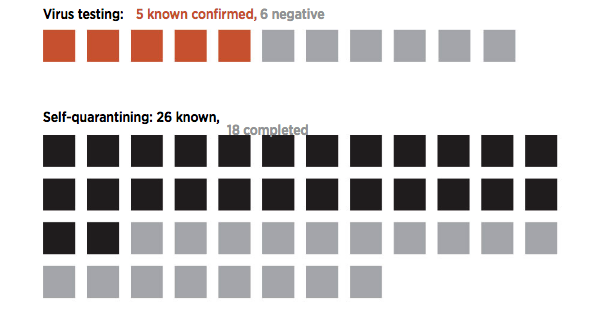
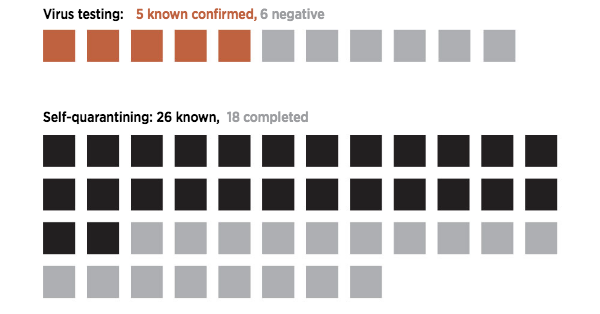
alignment updates

Changed region(s): [[0.06, 0.3439, 0.54, 0.4299], [0.06, 0.0287, 0.54, 0.0573]]

diff --git a/lawmaker-covid-20200327/_ai2html-graphic.html b/lawmaker-covid-20200327/_ai2html-graphic.html
@@ -132,10 +132,10 @@
 			<div id='g-ai1-3' class='g-ai2html-settings g-aiAbs' style='top:1.91%;left:8.5em;'>
 				<p class='g-aiPstyle2'>5 known confirmed, </p>
 			</div>
-			<div id='g-ai1-4' class='g-ai2html-settings g-aiAbs' style='top: 7.65em;left: 14.19em;'>
+			<div id='g-ai1-4' class='g-ai2html-settings g-aiAbs' style='top: 34.7619%;left: 14.19em;'>
 				<p class='g-aiPstyle1'>18 completed</p>
 			</div>
-			<div id='g-ai1-5' class='g-ai2html-settings g-aiAbs' style='top:34.7619%;left:7.1799%;'>
+			<div id='g-ai1-5' class='g-ai2html-settings g-aiAbs' style='top: 34.7619%;left:7.1799%;'>
 				<p class='g-aiPstyle0'>Self-quarantining: 26 known, </p>
 			</div>
 		</div>
